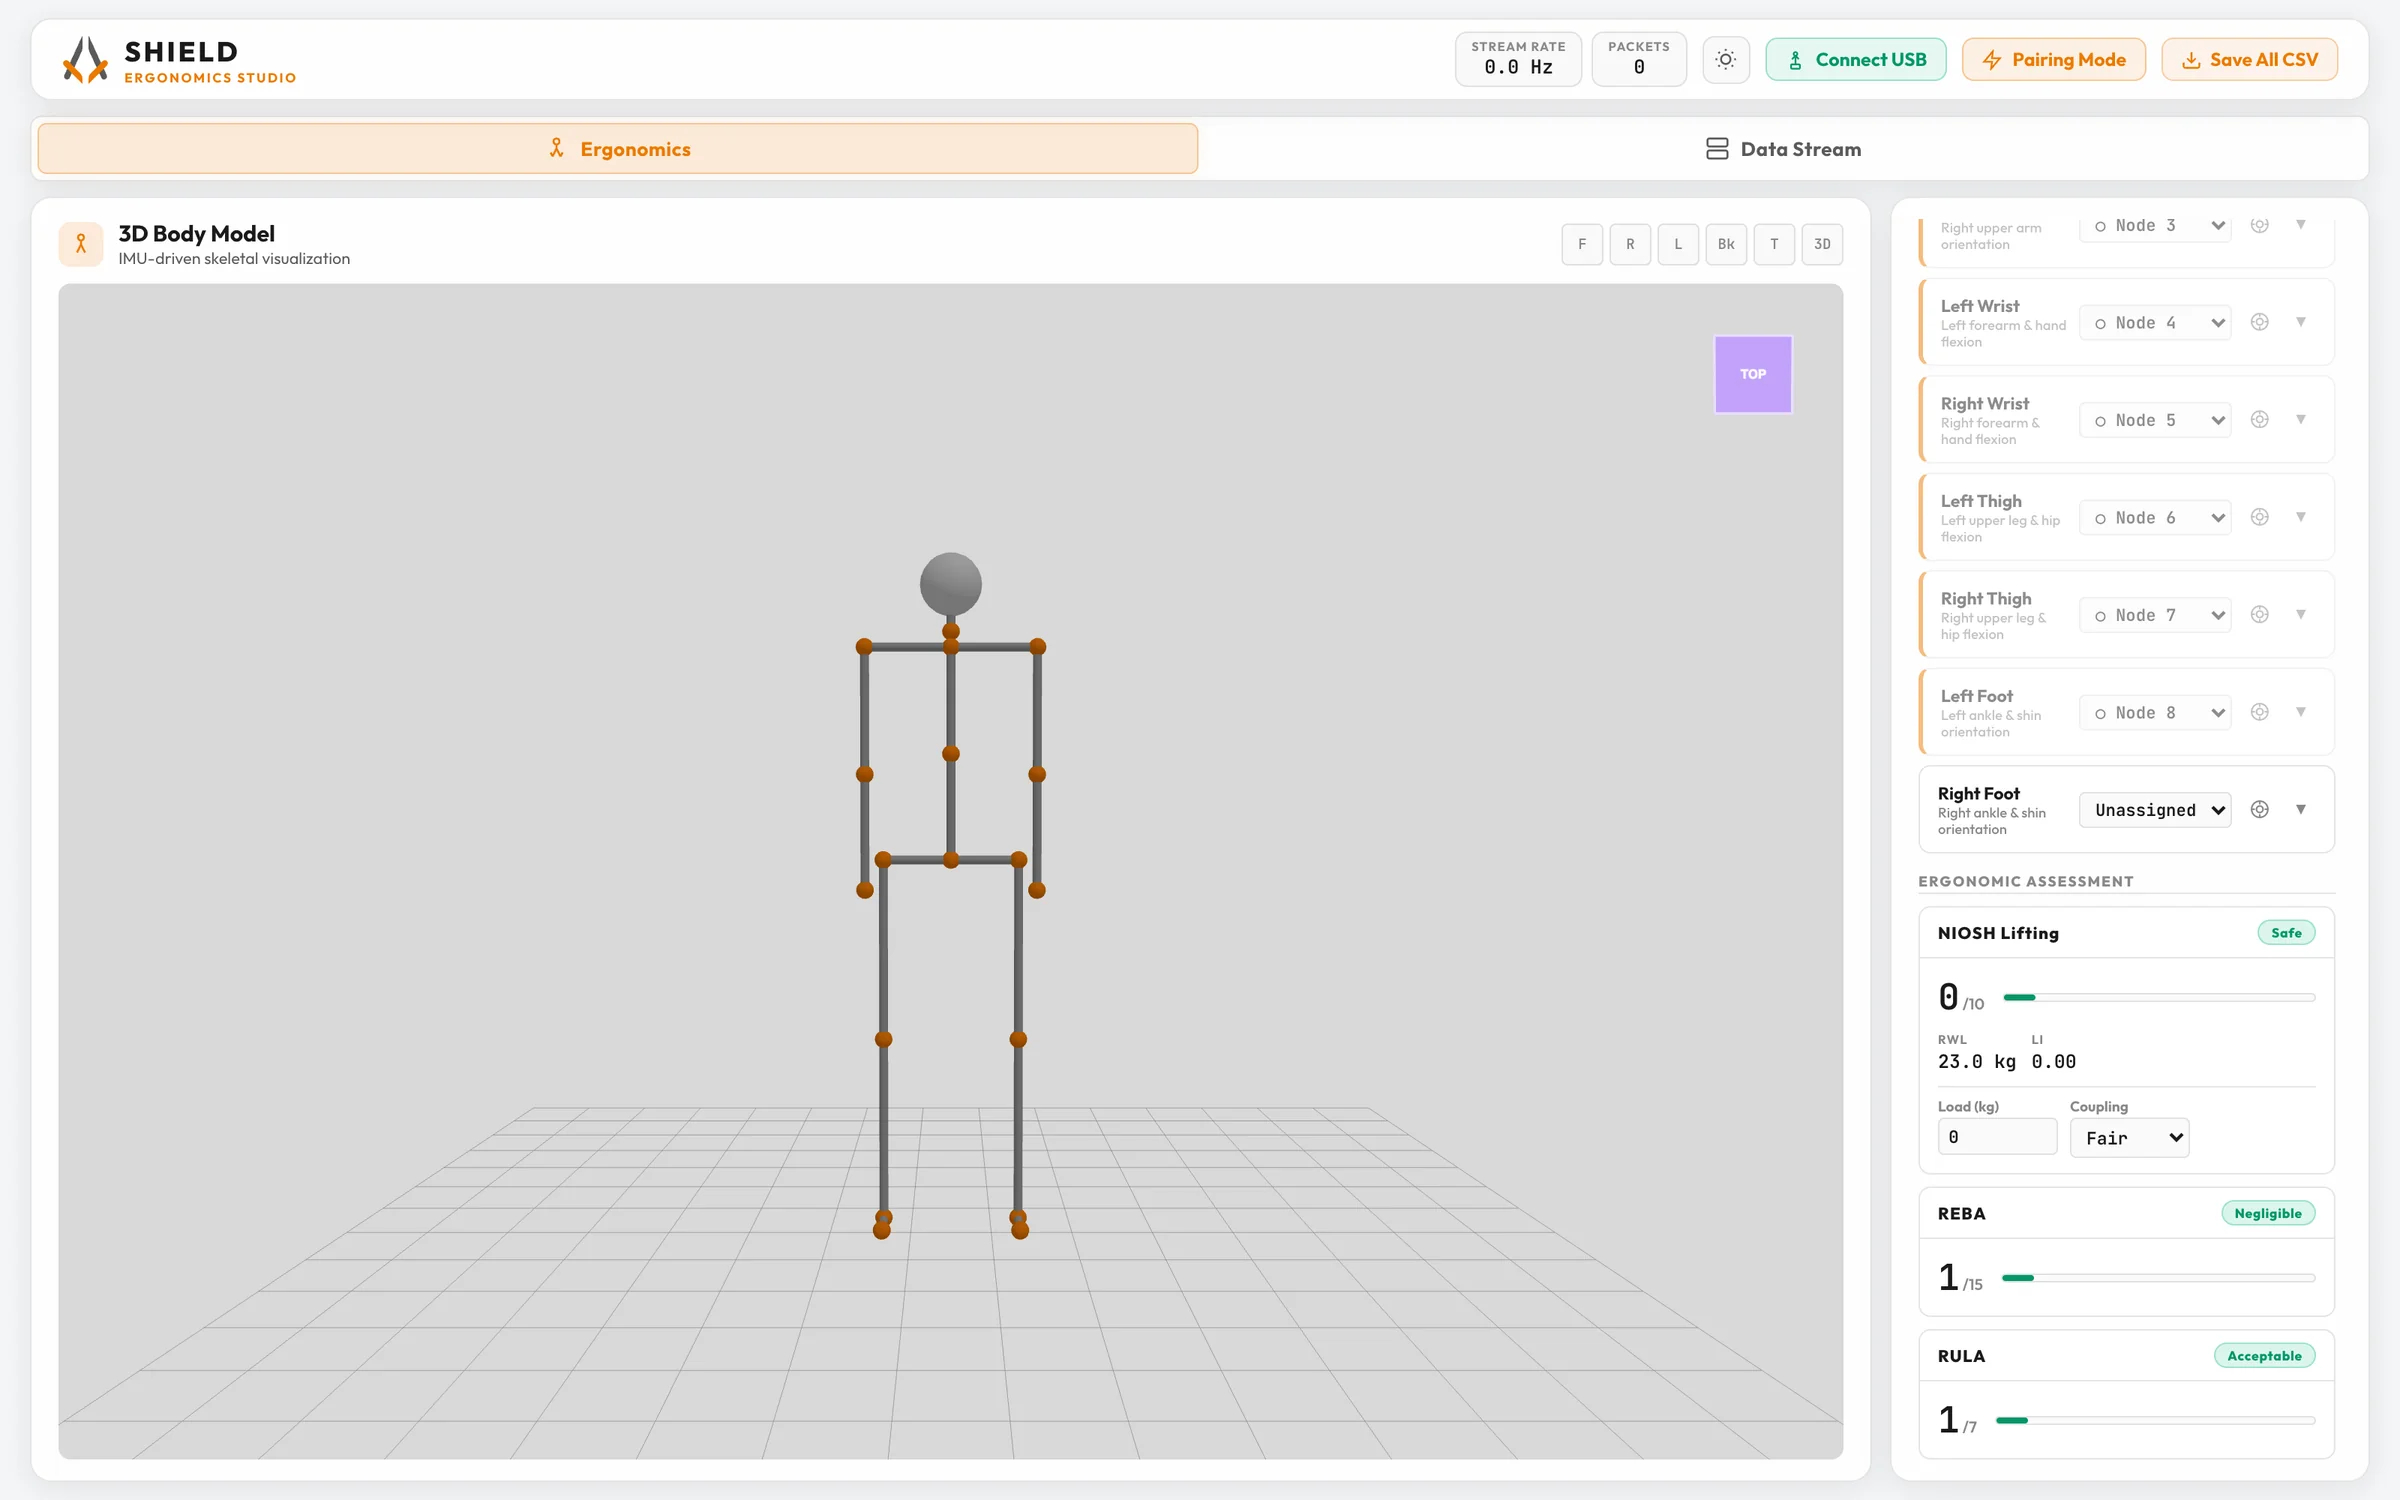
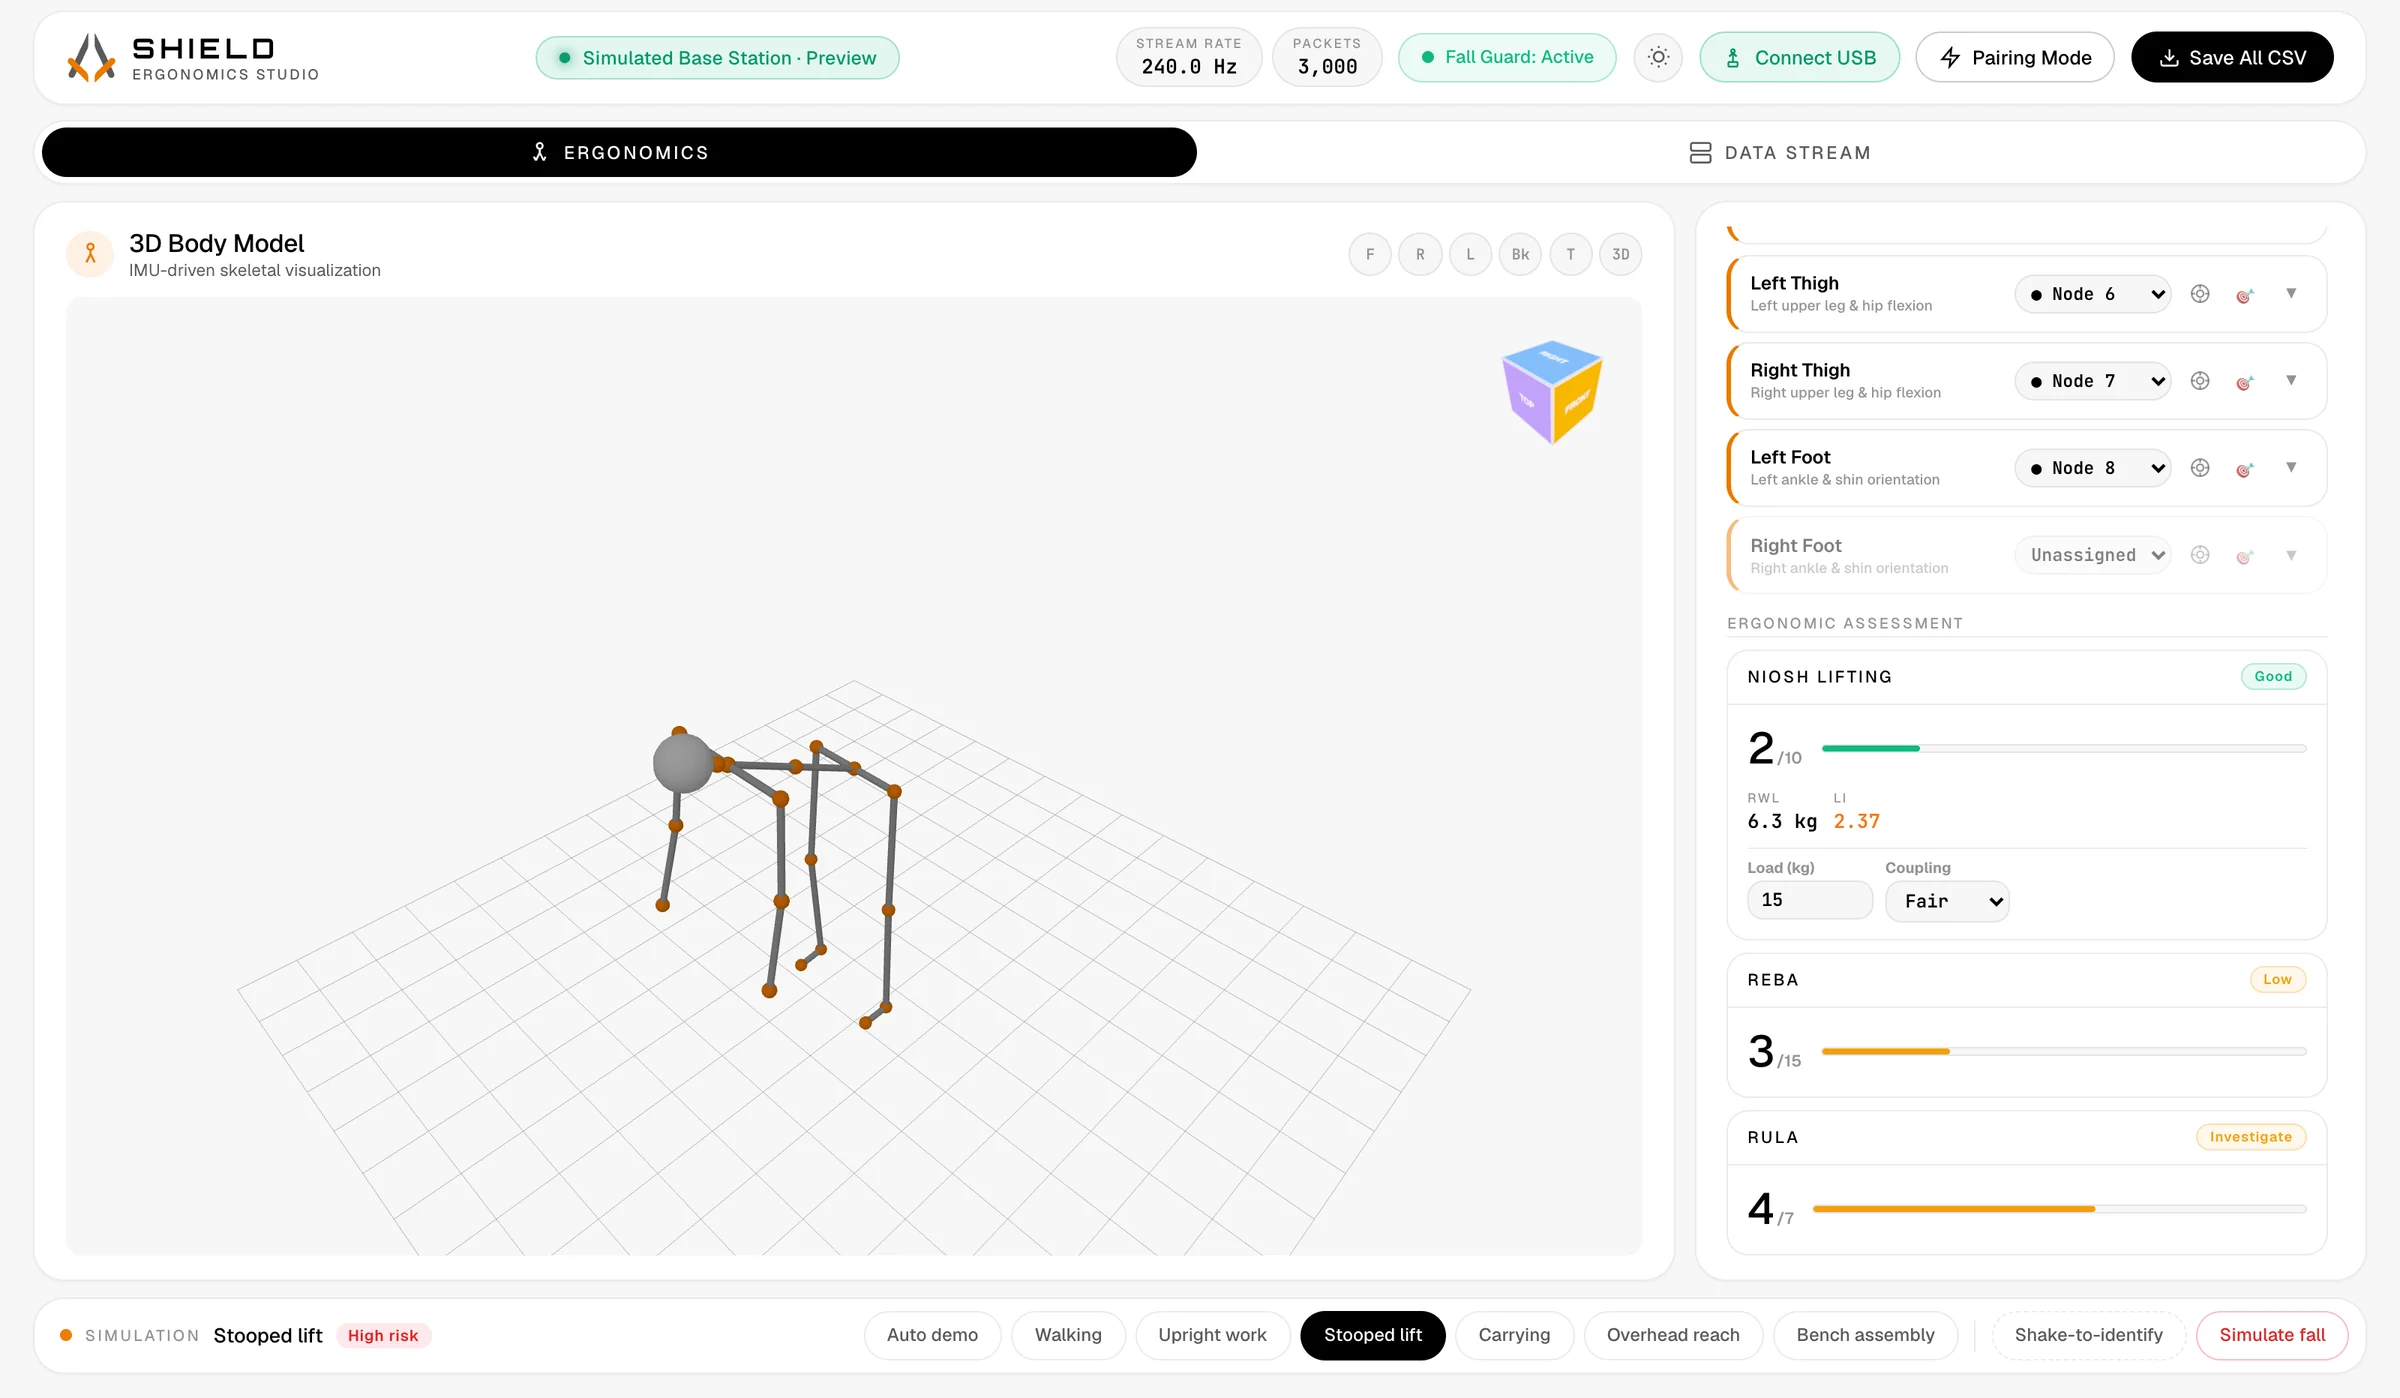
NEw shield style

diff --git a/src/pages/solutions/Shield.jsx b/src/pages/solutions/Shield.jsx
@@ -1,8 +1,9 @@
 import shieldDashboard from '../../assets/shield-dashboard.webp';
+import shieldDataStream from '../../assets/shield-datastream.webp';
 import shieldScores from '../../assets/shield-scores.webp';
 import CtaSection from '../../components/CtaSection';
 import Reveal from '../../components/Reveal';
-import { Eyebrow } from '../../components/ui';
+import { Eyebrow, Heading } from '../../components/ui';
 import { PreviewButton } from '../../components/Links';
 import { SHIELD_HREF } from '../../site';
 
@@ -48,7 +49,7 @@ export default function Shield() {
           >
             <img
               src={shieldDashboard}
-              alt="Shield Ergonomics Studio dashboard showing a 3D body model and ergonomic assessment scores"
+              alt="Shield Ergonomics Studio in light mode: a 3D skeleton mid stooped lift beside NIOSH, REBA, and RULA posture scores"
               className="w-full rounded-[14px] md:rounded-[20px]"
             />
           </a>
@@ -61,7 +62,7 @@ export default function Shield() {
             <div className="mx-auto max-w-sm overflow-hidden rounded-4xl bg-white p-4 ring-1 ring-black/5">
               <img
                 src={shieldScores}
-                alt="NIOSH, REBA, and RULA score cards from Shield"
+                alt="Shield posture scores during a stooped lift: NIOSH 2 of 10, REBA 3 of 15, RULA 4 of 7"
                 className="w-full rounded-2xl"
                 loading="lazy"
               />
@@ -76,6 +77,28 @@ export default function Shield() {
             ))}
           </div>
         </div>
+      </section>
+
+      {/* Data stream view */}
+      <section className="px-5 pt-24 md:pt-32">
+        <Reveal className="mx-auto max-w-3xl text-center">
+          <Eyebrow>Data stream</Eyebrow>
+          <Heading title="Every sensor, live." muted="Every axis, recorded." size="section" className="mt-4" />
+          <p className="mx-auto mt-5 max-w-xl text-[17px] leading-relaxed text-graphite">
+            Node status, battery, and orientation for each sensor, with multi-axis waveform history
+            you can export to CSV.
+          </p>
+        </Reveal>
+        <Reveal delay={120} className="mx-auto mt-14 max-w-6xl">
+          <div className="overflow-hidden rounded-[20px] bg-white p-1.5 shadow-2xl shadow-black/10 ring-1 ring-black/10 md:rounded-[28px] md:p-2.5">
+            <img
+              src={shieldDataStream}
+              alt="Shield data stream tab showing eight active sensor nodes and a live spine pitch curve during a lift"
+              className="w-full rounded-[14px] md:rounded-[20px]"
+              loading="lazy"
+            />
+          </div>
+        </Reveal>
       </section>
 
       <CtaSection />
